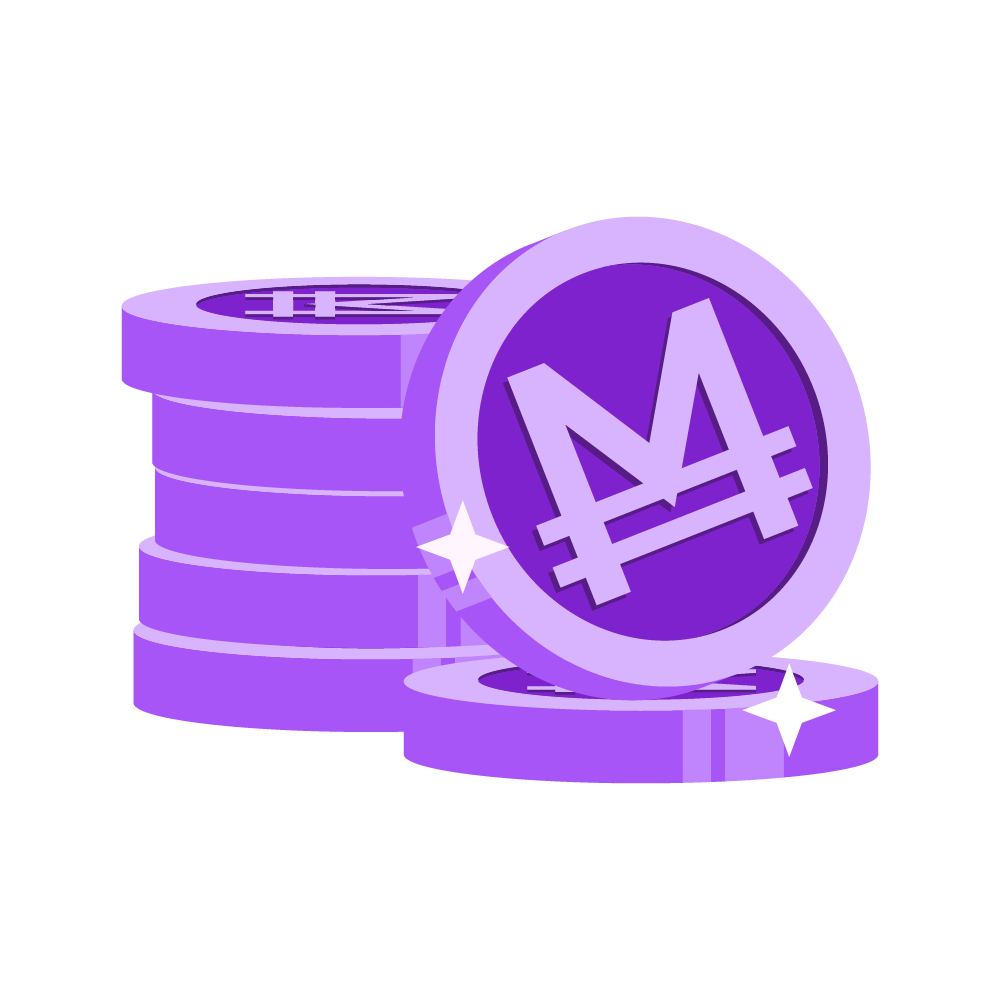
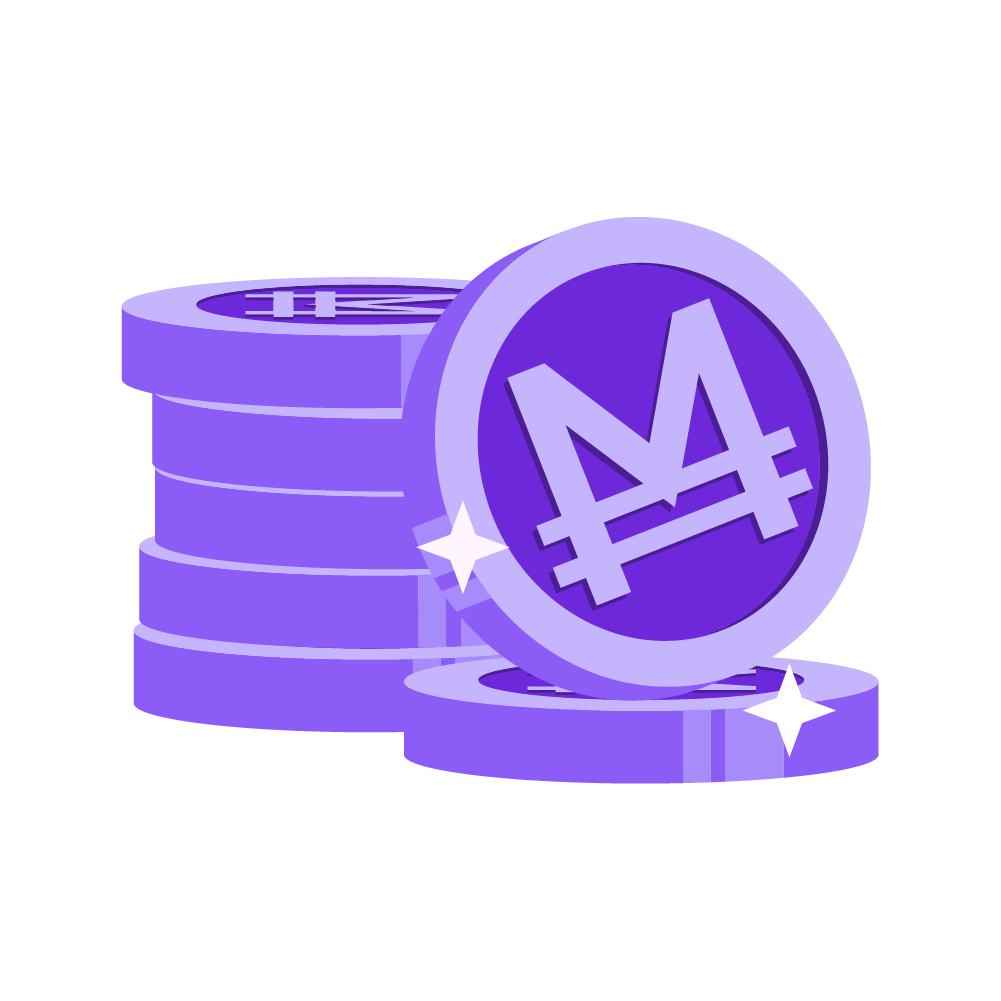
violet

diff --git a/web/components/charts/mana-spice-chart.tsx b/web/components/charts/mana-spice-chart.tsx
@@ -224,27 +224,27 @@ export const ManaSvg = `<?xml version="1.0" encoding="UTF-8"?><svg
         fill: none;
       }
       .cls-2 {
-        fill: #d8b4fe;
+        fill: #a88bfa;
       }
       .cls-3 {
-        fill: #c084fc;
-      }
-      .cls-4 {
         fill: #a5b4fc;
       }
+      .cls-4 {
+        fill: #c5b5fd;
+      }
       .cls-5 {
-        fill: #7e22ce;
+        fill: #6d29d9;
       }
       .cls-6 {
-        fill: #581c87;
+        fill: #4c1d95;
       }
       .cls-7 {
-        fill: #a855f7;
+        fill: #8b5cf6;
       }
     </style>
   </defs>
   <path
-    class="cls-4"
+    class="cls-3"
     d="M1243.52,750.2c0,296.35-196.45,542.79-455.4,593.54-32.1,6.3-65.17,9.59-98.95,9.59-306.16,0-554.35-270.04-554.35-603.13,0-306.62,210.28-559.8,482.51-598.12,23.52-3.31,47.5-5.02,71.84-5.02,306.16,0,554.35,270.03,554.35,603.14Z"
   />
   <path
@@ -260,11 +260,11 @@ export const ManaSvg = `<?xml version="1.0" encoding="UTF-8"?><svg
     d="M1498.15,694.77h-121.67C1351.83,327.68,1084.25,33.97,747.91,3.08c-19.37-1.77-38.95-2.68-58.74-2.68h144.2c353.3,12.36,639.42,314.02,664.78,694.38Z"
   />
   <path
-    class="cls-4"
+    class="cls-3"
     d="M689.17,147.06c-24.34,0-48.32,1.71-71.84,5.02-258.85,50.83-455.23,297.23-455.23,593.52,0,333.11,248.2,603.14,554.35,603.14,24.28,0,48.21-1.7,71.67-5,258.96-50.75,455.4-297.19,455.4-593.54,0-333.1-248.19-603.14-554.35-603.14Z"
   />
   <path
-    class="cls-2"
+    class="cls-4"
     d="M1376.48,694.77C1351.83,327.68,1084.25,33.97,747.91,3.08c-19.37-1.77-38.95-2.68-58.74-2.68C308.55.39,0,336.09,0,750.2s308.55,749.8,689.17,749.8l4.9-.02c19.54-.15,38.89-1.18,58.02-3.06,275.37-27.12,504.01-230.47,589.83-505.57,7.73-24.75,14.3-50.08,19.64-75.92,3.31-16,6.15-32.21,8.5-48.59,5.46-38.01,8.3-76.97,8.3-116.65,0-18.64-.62-37.13-1.86-55.43ZM788.12,1343.75c-32.1,6.3-65.17,9.59-98.95,9.59-306.16,0-554.35-270.04-554.35-603.13,0-306.62,210.28-559.8,482.51-598.12,23.52-3.31,47.5-5.02,71.84-5.02,306.16,0,554.35,270.03,554.35,603.14,0,296.35-196.45,542.79-455.4,593.54Z"
   />
   <path
@@ -296,11 +296,11 @@ export const ManaSvg = `<?xml version="1.0" encoding="UTF-8"?><svg
     transform="translate(-310.65 1728.08) rotate(-90)"
   />
   <polygon
-    class="cls-2"
+    class="cls-4"
     points="1036.92 364.69 1036.92 1135.7 919.48 1135.7 919.48 567.5 688.65 937.44 458.86 570.64 458.86 1135.7 341.42 1135.7 341.42 364.69 466.95 364.69 689.46 721.73 910.37 364.69 1036.92 364.69"
   />
   <rect
-    class="cls-2"
+    class="cls-4"
     x="655.58"
     y="431.53"
     width="67.18"
@@ -308,7 +308,7 @@ export const ManaSvg = `<?xml version="1.0" encoding="UTF-8"?><svg
     transform="translate(-177.39 1555.63) rotate(-90)"
   />
   <rect
-    class="cls-2"
+    class="cls-4"
     x="655.58"
     y="573.33"
     width="67.18"
@@ -317,11 +317,11 @@ export const ManaSvg = `<?xml version="1.0" encoding="UTF-8"?><svg
   />
   <line class="cls-1" x1="689.17" y1="1500" x2="694.07" y2="1499.98" />
   <path
-    class="cls-3"
+    class="cls-2"
     d="M1499.98,749.81c0,39.82-2.86,78.91-8.36,117.04h-121.58c5.46-38.01,8.3-76.97,8.3-116.65,0-18.64-.62-37.13-1.86-55.43h121.67c1.22,18.17,1.83,36.53,1.83,55.03Z"
   />
   <path
-    class="cls-3"
+    class="cls-2"
     d="M1483.11,915.43c-5.35,25.83-11.93,51.17-19.67,75.92h-121.53c7.73-24.75,14.3-50.08,19.64-75.92h121.56Z"
   />
 </svg>

diff --git a/web/components/portfolio/portfolio-value-section.tsx b/web/components/portfolio/portfolio-value-section.tsx
@@ -312,7 +312,7 @@ function PortfolioValueSkeleton(props: {
         >
           <CoinNumber
             amount={portfolioValues?.net ?? undefined}
-            className="text-xs text-purple-600 dark:text-purple-400 sm:text-sm"
+            className="text-xs text-violet-600 dark:text-violet-400 sm:text-sm"
             numberType="short"
           />
         </PortfolioTab>
@@ -324,7 +324,7 @@ function PortfolioValueSkeleton(props: {
         >
           <CoinNumber
             amount={portfolioValues?.profit ?? undefined}
-            className="text-xs text-purple-600 dark:text-purple-400 sm:text-sm"
+            className="text-xs text-violet-600 dark:text-violet-400 sm:text-sm"
             numberType="short"
           />
         </PortfolioTab>
@@ -343,7 +343,7 @@ function PortfolioValueSkeleton(props: {
                     className={clsx(
                       'cursor-pointer select-none transition-opacity',
                       portfolioFocus == 'all'
-                        ? 'text-purple-700 opacity-100 dark:text-purple-400'
+                        ? 'text-violet-700 opacity-100 dark:text-violet-400'
                         : 'text-ink-1000 opacity-50 hover:opacity-[85%]'
                     )}
                     onClick={() => togglePortfolioFocus('all')}

diff --git a/web/components/redeem-spice-modal.tsx b/web/components/redeem-spice-modal.tsx
@@ -176,7 +176,7 @@ function AllSpiceToManaButton(props: {
         className="w-full whitespace-nowrap text-xs sm:text-sm"
         loading={loading}
         disabled={disableAllButtons}
-        color="purple"
+        color="violet"
       >
         Redeem all for mana
       </Button>
@@ -184,7 +184,7 @@ function AllSpiceToManaButton(props: {
         <Row className="text-ink-500 w-full justify-end gap-1 whitespace-nowrap text-xs sm:text-sm ">
           <CoinNumber
             amount={user.spiceBalance * SPICE_TO_MANA_CONVERSION_RATE}
-            className="font-semibold text-purple-600 dark:text-purple-400"
+            className="font-semibold text-violet-600 dark:text-violet-400"
           />
           mana value
         </Row>

diff --git a/web/components/buttons/button.tsx b/web/components/buttons/button.tsx
@@ -24,6 +24,7 @@ export type ColorType =
   | 'none'
   | 'white-outline'
   | 'purple'
+  | 'violet'
 
 const sizeClasses = {
   '2xs': 'px-2 py-1 text-xs',
@@ -62,6 +63,7 @@ export function buttonClass(size: SizeType, color: ColorType) {
     ],
     color === 'blue' && [solid, 'bg-blue-400 hover:bg-blue-500'],
     color === 'purple' && [solid, 'bg-purple-500 hover:bg-purple-700'],
+    color === 'violet' && [solid, 'bg-violet-500 hover:bg-violet-700'],
     color === 'sky-outline' && [outline, 'text-sky-500 hover:bg-sky-500'],
     color === 'indigo' && [solid, 'bg-primary-500 hover:bg-primary-600'],
     color === 'indigo-outline' && [

diff --git a/web/components/nav/profile-summary.tsx b/web/components/nav/profile-summary.tsx
@@ -38,7 +38,7 @@ export function ProfileSummary(props: { user: User; className?: string }) {
           <CoinNumber
             amount={user?.balance}
             numberType="animated"
-            className="mr-2 text-purple-600 dark:text-purple-400"
+            className="mr-2 text-violet-600 dark:text-violet-400"
           />
         </div>
         {TWOMBA_ENABLED ? (

diff --git a/web/components/nav/bottom-nav-bar.tsx b/web/components/nav/bottom-nav-bar.tsx
@@ -162,7 +162,7 @@ function NavBarItem(props: {
           <Row className="gap-1">
             <CoinNumber
               amount={user?.balance}
-              className="text-purple-600 dark:text-purple-400"
+              className="text-violet-600 dark:text-violet-400"
               numberType="short"
               isInline
               coinClassName="!top-[0.15em]"

diff --git a/web/components/profile/add-funds-button.tsx b/web/components/profile/add-funds-button.tsx
@@ -23,7 +23,7 @@ export function AddFundsButton(props: {
           TWOMBA_ENABLED ? router.push('/checkout') : setOpen(true)
         }
         size={size ?? 'md'}
-        color="purple"
+        color="violet"
         className={className}
       >
         <PlusIcon className="mr-1 h-3 w-3" />
